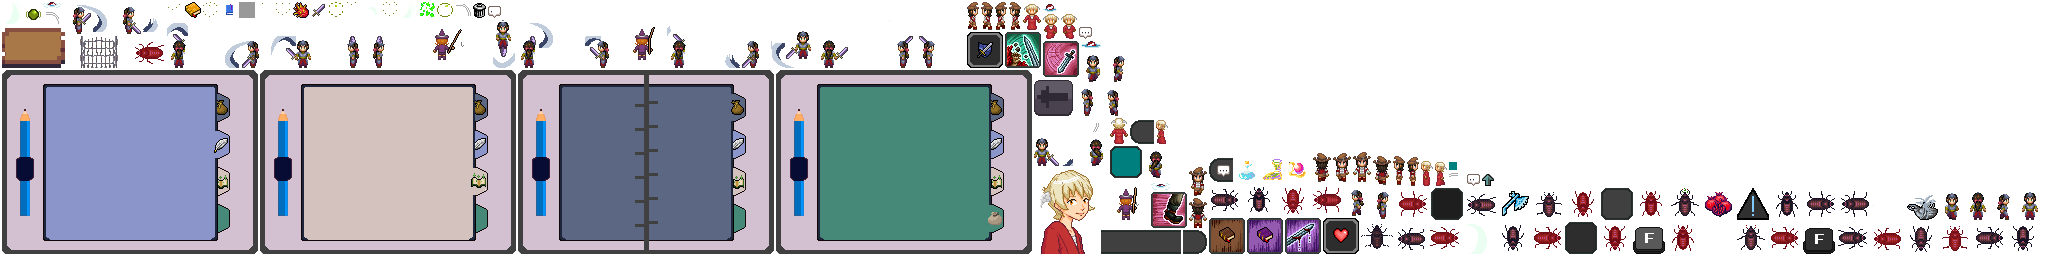
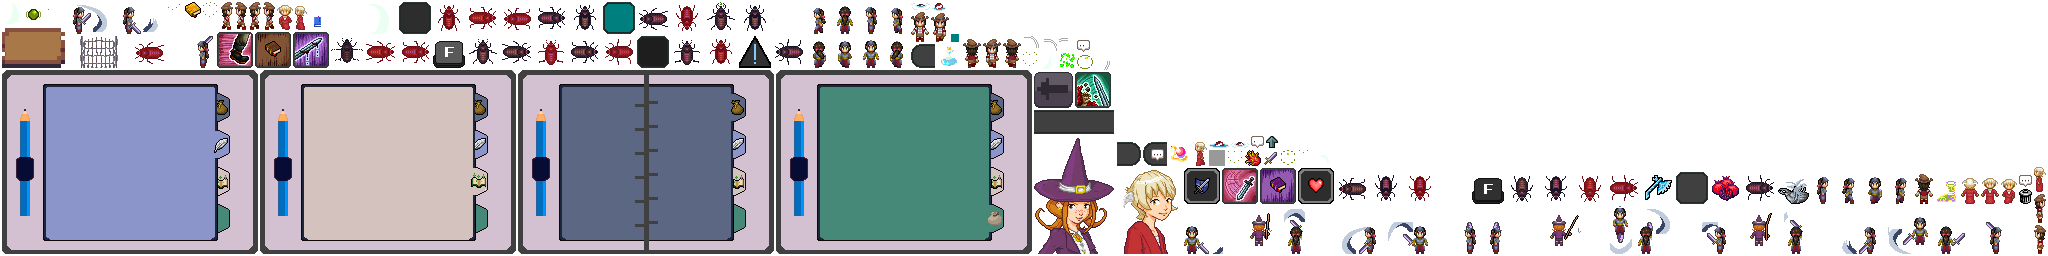
Add basic dialog for thalia and fix entity crash

Changed region(s): [[0.0625, 0.0, 1.0, 1.0]]

diff --git a/core/src/main/java/me/vrekt/oasis/entity/npc/tutorial/ThaliaEntity.java b/core/src/main/java/me/vrekt/oasis/entity/npc/tutorial/ThaliaEntity.java
@@ -9,6 +9,7 @@ import me.vrekt.oasis.OasisGame;
 import me.vrekt.oasis.asset.game.Asset;
 import me.vrekt.oasis.asset.settings.OasisGameSettings;
 import me.vrekt.oasis.entity.EntityType;
+import me.vrekt.oasis.entity.dialog.EntityDialogueLoader;
 import me.vrekt.oasis.entity.interactable.EntityInteractable;
 import me.vrekt.oasis.world.GameWorld;
 
@@ -36,12 +37,18 @@ public final class ThaliaEntity extends EntityInteractable {
 
         parentWorld = worldIn;
 
-        activeEntityTexture = addTexturePart("fishing_1", asset.get("thalia_fishing", 1));
+        addTexturePart("face", asset.get("thalia_face"));
+        addTexturePart("fishing_1", asset.get("thalia_fishing", 1), true);
         addTexturePart("fishing_2", asset.get("thalia_fishing", 2));
         addTexturePart("fishing_3", asset.get("thalia_fishing", 3));
 
         createBB(activeEntityTexture.getRegionWidth(), activeEntityTexture.getRegionHeight());
         createBoxBody(worldIn.boxWorld());
+
+        dialogue = EntityDialogueLoader.load("assets/dialog/thalia_dialog.json");
+        dialogue.setOwner(this);
+
+        activeEntry = dialogue.getEntry("thalia:dialog_stage_0").getEntry();
     }
 
     @Override
@@ -64,7 +71,7 @@ public final class ThaliaEntity extends EntityInteractable {
 
     @Override
     public TextureRegion getDialogFace() {
-        return null;
+        return getTexturePart("face");
     }
 
     @Override

diff --git a/core/src/main/java/me/vrekt/oasis/entity/npc/tutorial/BasicFishEntity.java b/core/src/main/java/me/vrekt/oasis/entity/npc/tutorial/BasicFishEntity.java
@@ -20,6 +20,7 @@ public final class BasicFishEntity extends GameEntity {
 
     public static final String ENTITY_KEY = "oasis:fish";
 
+    // keep within the bounds of the water
     private static final float WANDERING_MAX_Y = 60f;
     private static final float WANDERING_MIN_Y = 57;
 
@@ -47,7 +48,7 @@ public final class BasicFishEntity extends GameEntity {
         fishAnimation.setPlayMode(Animation.PlayMode.LOOP);
 
         createBB(16 * OasisGameSettings.SCALE, 16 * OasisGameSettings.SCALE);
-        createBoxBody(parentWorld.boxWorld());
+        createBoxBody(worldIn.boxWorld());
 
         wanderComponent = new AiWanderComponent(this, WANDERING_MIN_Y, WANDERING_MAX_Y);
         wanderComponent.setMaxLinearSpeed(1f);
@@ -63,6 +64,8 @@ public final class BasicFishEntity extends GameEntity {
     @Override
     public void render(SpriteBatch batch, float delta) {
         boolean skipFrame = MathUtils.randomBoolean(0.25f);
+
+        // doesn't seem to work correctly, keep for now.
         if (lastFrame == null) lastFrame = fishAnimation.getKeyFrame(animationTime);
         if (!skipFrame) {
             lastFrame = fishAnimation.getKeyFrame(animationTime);

diff --git a/core/src/main/java/me/vrekt/oasis/entity/GameEntity.java b/core/src/main/java/me/vrekt/oasis/entity/GameEntity.java
@@ -646,6 +646,18 @@ public abstract class GameEntity implements Viewable, Drawable, ResourceLoader, 
     }
 
     /**
+     * Add a texture part
+     *
+     * @param name    the name
+     * @param texture the texture
+     */
+    protected TextureRegion addTexturePart(String name, TextureRegion texture, boolean initial) {
+        entity.getComponent(EntityTextureComponent.class).textureRegions.put(name, texture);
+        if(initial) activeEntityTexture = texture;
+        return texture;
+    }
+
+    /**
      * Get a texture part
      *
      * @param name the name of the texture

diff --git a/core/src/main/java/me/vrekt/oasis/OasisGame.java b/core/src/main/java/me/vrekt/oasis/OasisGame.java
@@ -43,7 +43,7 @@ public final class OasisGame extends Game {
 
     // automatically incremented everytime the game is built/ran
     // Format: {YEAR}{MONTH}{DAY}-{HOUR:MINUTE}-{BUILD NUMBER}
-    public static final String GAME_VERSION = "20240608-0104-4627";
+    public static final String GAME_VERSION = "20240608-0123-4633";
 
     private Asset asset;
 
